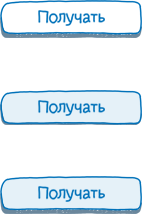
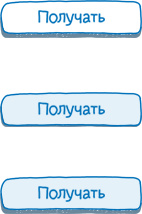
fix  text page

Changed region(s): [[0.0, 0.4206, 1.0, 0.6168]]

diff --git a/css/styless.less b/css/styless.less
@@ -63,16 +63,22 @@ h1, h2, h3, h4, h5, h6 {
   font-weight: normal;
 }
 .text {
-    max-width: 800px;
+    max-width: 900px;
     font-size: 16px;
     p + p {
-        margin-top: 15px;
+        margin-top: 8px;
+    }
+    p + img {
+        margin-top: 8px;
+        margin-bottom: 8px;
     }
     h1 {
         font-size: 24px;
     }
     .text_description {
         font-size: 18px;
+        margin-top: 10px;
+        margin-bottom: 35px;
     }
 }
 
@@ -247,6 +253,10 @@ textarea:-ms-input-placeholder { /* Internet Explorer 10+ */
     .inlineblock;
     width: 5.1%;
 }
+.grid3_3 {
+    .inlineblock;
+    width: 3.3%;
+}
 /*Main*/
 .main {
     .clearfix;
@@ -343,21 +353,28 @@ textarea:-ms-input-placeholder { /* Internet Explorer 10+ */
         padding-left: 30px;
         padding-right: 30px;
         padding-bottom: 100px;
+        position: relative;
+        form {
+            position: relative;
+            z-index: 3;
+        }
     }
     .bg_block_bottom {
         background: url("../img/bg/form_bottom.png") no-repeat;
         height: 134px;
         margin-top: -134px;
+        position: relative;
+        z-index: 2;
     }
 }
 .input_text {
-    padding: 0 10px;
+    padding: 10px;
     width: 192px;
-    height: 38px;
+    height: 18px;
     background: url("../img/bg/input.png") no-repeat;
     border: none;
     font-size: 14px;
-    line-height: 38px;
+    //line-height: 38px;
     margin-top: 10px;
 }
 .btn_get {
@@ -385,7 +402,7 @@ textarea:-ms-input-placeholder { /* Internet Explorer 10+ */
         cursor: pointer;
     }
     &:active {
-        background-position: 0 -117px;
+        background-position: 0 -114px;
     }
 }
 .btn_plus_disable {
@@ -436,6 +453,9 @@ textarea:-ms-input-placeholder { /* Internet Explorer 10+ */
 }
 .right_title {
     background: url("../img/bg/black_line.png") no-repeat center 100%;
+    position: relative;
+    top: -20px;
+    margin-bottom: -20px;
 }
 .disabled_input {
     background-image: url("../img/bg/input_disabled.png");
@@ -464,8 +484,15 @@ textarea:-ms-input-placeholder { /* Internet Explorer 10+ */
         background-position: 0 -170px;
     }
     &:active {
-        background-position: 0 -85px;
+        background-position: 0 -84px;
     }
+}
+.destination {
+    margin-left: 60%;
+    text-align: left;
+}
+.text_page_right {
+    margin-top: -20px;
 }
 /*Footer*/
 footer {

diff --git a/blocks/left/text_left.html b/blocks/left/text_left.html
@@ -7,7 +7,7 @@
                 Организация на некоторых остановках современных павильонов для защиты пассажиров от ветра, дождя и проезжающих автомобилей. Обустройство посадочных площадок на уровне первой ступеньки трамвайных вагонов для ускорения посадки и высадки.
             </div>
 
-            <p style="text-align: right;">Генеральному директору&nbsp;<br />
+            <p class="destination">Генеральному директору&nbsp;<br />
                 ГУП Мосгортранс<br />
                 Иванову П. В.</p>
 

diff --git a/blocks/default/footer.html b/blocks/default/footer.html
@@ -1,6 +1,6 @@
 	<footer role = "contentinfo">
 		<div class = "container">
-            <div class="grid7"></div>
+            <div class="grid3_3"></div>
             <div class="grid90">
                 <a href="#" class="lj"><span>Живой журнал Максим Каца</span></a>
                 <p class="copyright">Максим Кац и коллеги, 2013</p>

diff --git a/blocks/right/form_right.html b/blocks/right/form_right.html
@@ -1,4 +1,4 @@
-<div class="main_right">
+<div class="main_right text_page_right">
     <div class="bg_block scroll_form">
         <div class="bg_block_top"></div>
         <div class="bg_block_center">

diff --git a/blocks/right/katz_right.html b/blocks/right/katz_right.html
@@ -1,4 +1,4 @@
-<div class="main_right">
+<div class="main_right text_page_right">
     <div class="bg_block scroll_form">
         <div class="bg_block_top"></div>
         <div class="bg_block_center">
